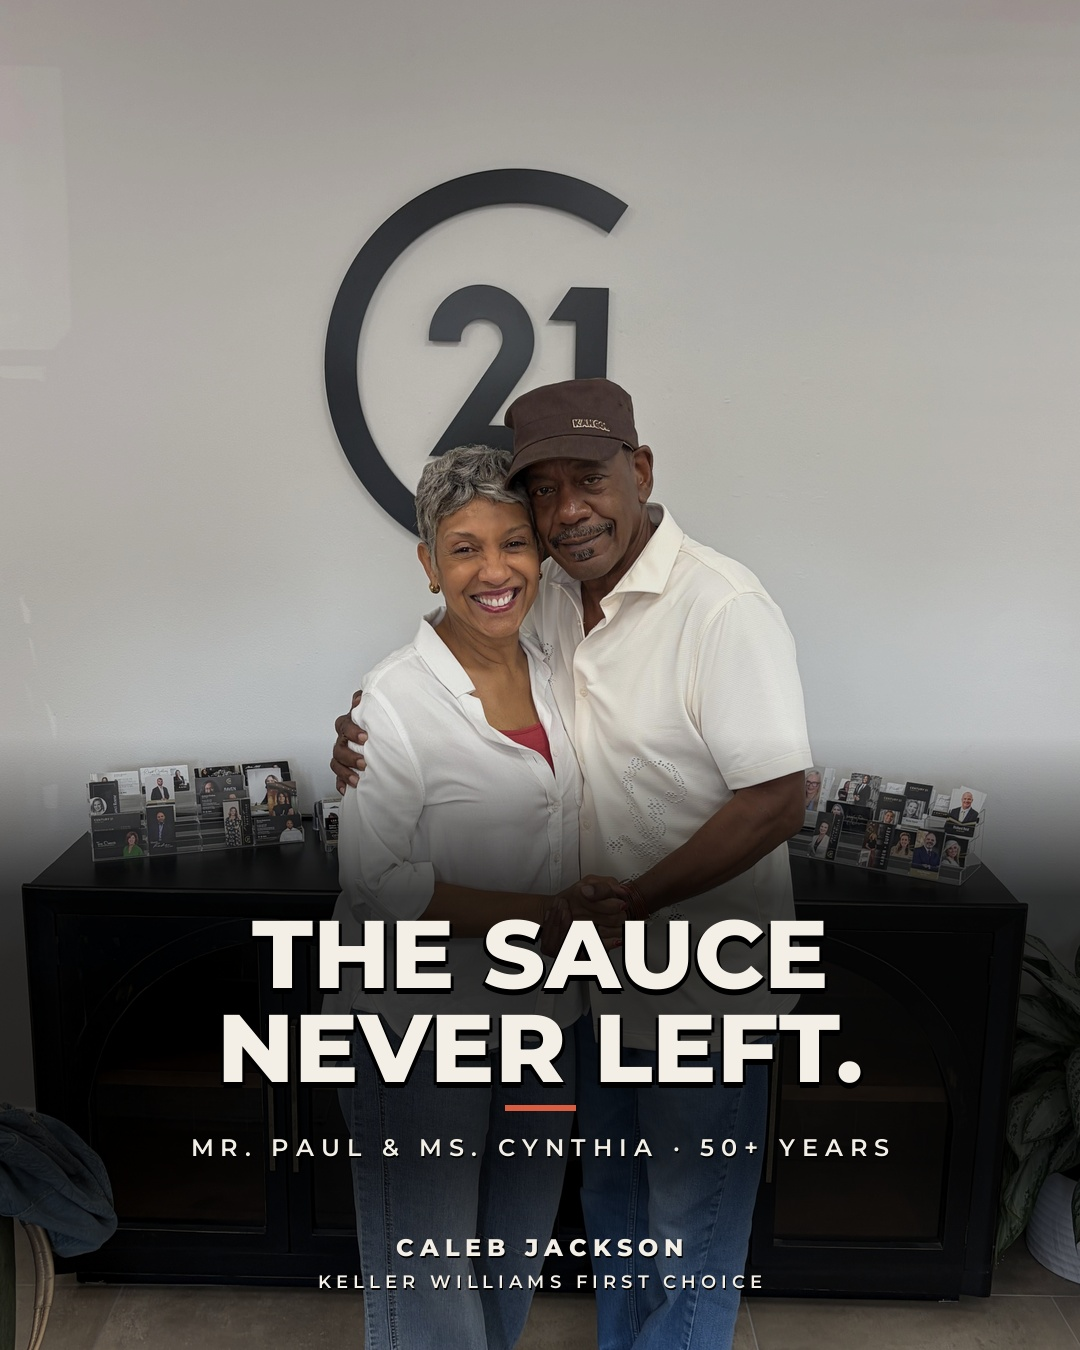
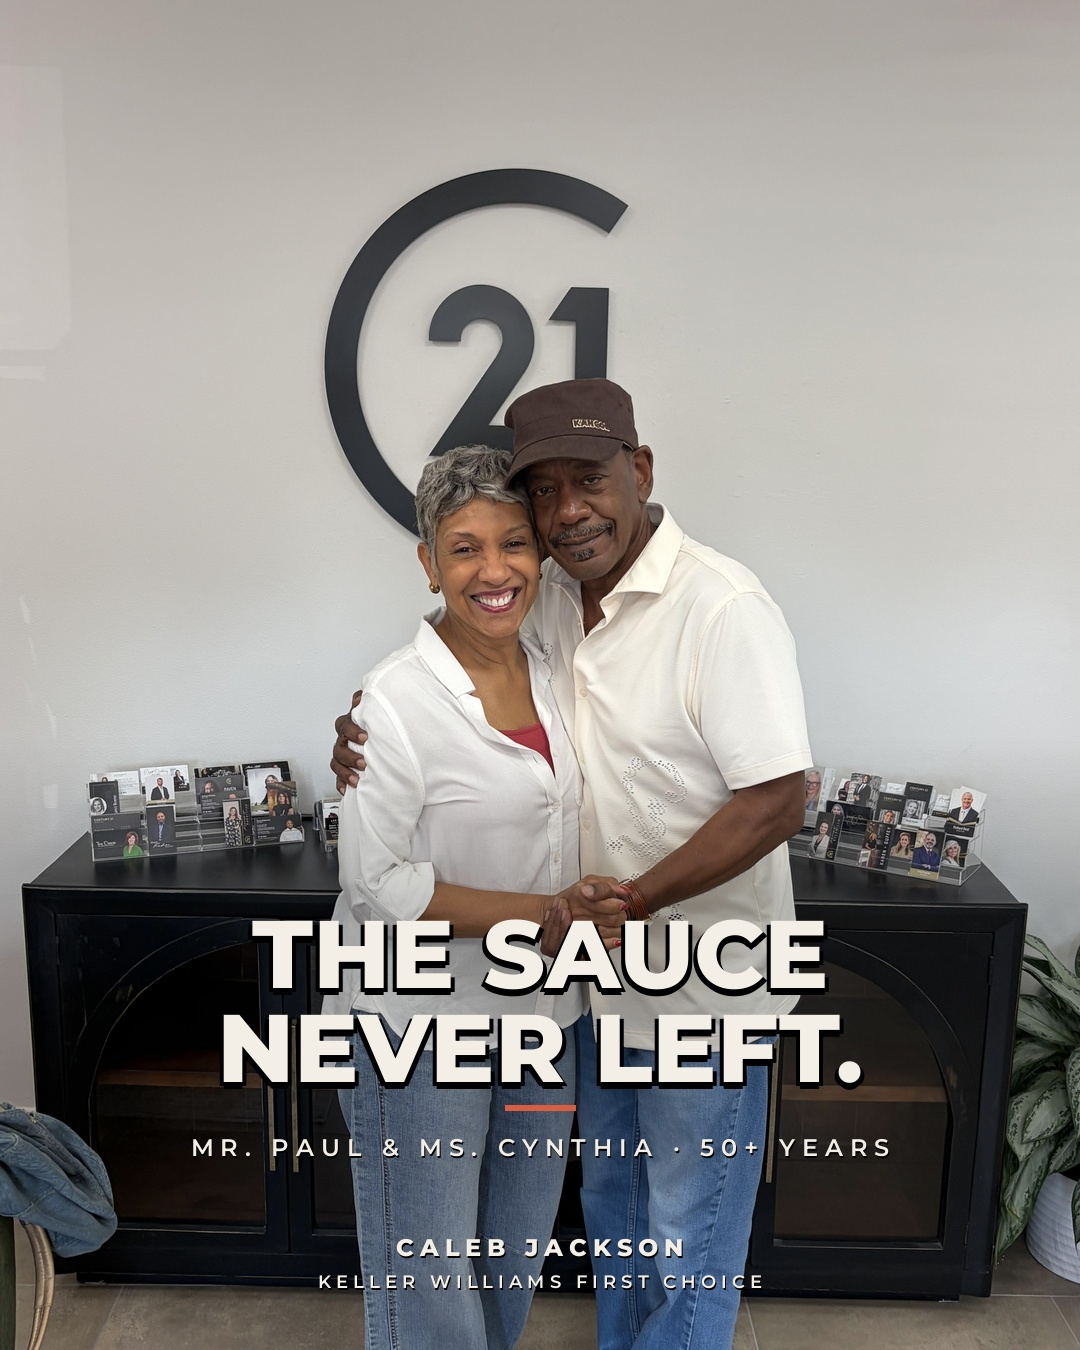
Cover style: keep photos bright, faint band only, stronger type shadow
Claude-Session: https://claude.ai/code/session_0146vzkc7v1M5hMrgX8TnyFq

Changed region(s): [[0.0, 0.3733, 1.0, 1.0], [0.1222, 0.7778, 0.275, 0.8711]]

diff --git a/skills/instagram-cover-style/render.py b/skills/instagram-cover-style/render.py
@@ -91,7 +91,7 @@ def render(slide, out_path):
         canvas = blur_fill(im)
     else:
         canvas = cover_fit(im, slide.get('focus', 0.5))
-    canvas = darken(canvas, slide.get('darken', 0.12))
+    canvas = darken(canvas, slide.get('darken', 0.0))
 
     headline = slide['headline'].upper()
     if not headline.endswith(('.', '?', '!')):
@@ -113,13 +113,13 @@ def render(slide, out_path):
     limit = (H - 118 - 70) if slide.get('signature', True) else H - 80
     if bottom > limit:
         shift = bottom - limit; top -= shift; bottom -= shift
-    canvas = text_gradient(canvas, top, bottom, slide.get('band', 190))
+    canvas = text_gradient(canvas, top, bottom, slide.get('band', 55))
     d = ImageDraw.Draw(canvas, 'RGBA')
 
     y = top
     for ln in lines:
-        for off in ((0, 6), (3, 3), (-3, 3)):
-            d.text((W / 2 + off[0], y + off[1]), ln, font=hfont, fill=(0, 0, 0, 90), anchor='ma')
+        for off in ((0, 7), (4, 4), (-4, 4), (0, 3)):
+            d.text((W / 2 + off[0], y + off[1]), ln, font=hfont, fill=(0, 0, 0, 110), anchor='ma')
         d.text((W / 2, y), ln, font=hfont, fill=OFFWHITE, anchor='ma')
         y += lh
     y += 22

diff --git a/skills/instagram-cover-style/SKILL.md b/skills/instagram-cover-style/SKILL.md
@@ -15,7 +15,7 @@ then ask Caleb.
 | Element | Rule |
 |---|---|
 | Canvas | 1080 x 1350 (4:5). Photo is full bleed. Never a framed or inset photo on black. |
-| Photo treatment | Real photo, slight darken (10 to 25 percent) and a stronger dark gradient behind the text block only. Keep faces untouched and visible. |
+| Photo treatment | Photo stays bright and basically untouched. No darken by default. Only a faint band (renderer `band` 55 or less) behind the text; the drop shadow does the work. Caleb rejected a heavy gradient on Oct 14 2026. |
 | Headline | ALL CAPS, Montserrat ExtraBold (800) or Black (900). Off-white `#F3EFE6`. Centered. Two lines max, tight leading (about 0.92). Ends with a period. Soft drop shadow so it reads on any photo. |
 | Headline copy | Three to six words. A hook, not a label. Examples from the feed: "I GOT A LITTLE WORKED UP." "DON'T TAKE MY WORD." "YOU NEED THIS HOUSE." "WAIT FOR THE REVEAL." "THREE HOMES. ONE TOUR." |
 | Accent | One short coral bar centered under the headline. Color `#D95D41` (sampled from the feed). About 70 px wide, 5 px tall, 22 px below the headline. Nothing else is coral. |
